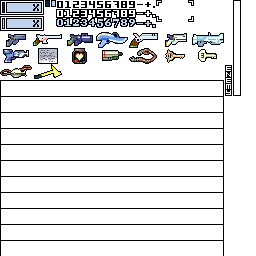
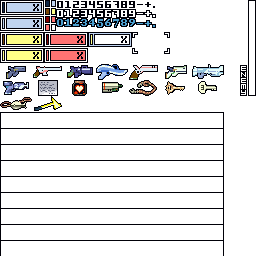
heads changes + gui fixes

diff --git a/source/menu/headsup-gui.cpp b/source/menu/headsup-gui.cpp
@@ -16,7 +16,7 @@ namespace {
 	const glm::vec2 kBarrierUnitsPosition 	{ 47.0f, 2.0f };
 	const rect_t kBarrierUnitsBounding 		{ 45.0f, 0.0f, 6.0f, 8.0f };
 	const glm::vec2 kOxygenCountPosition 	{ 2.0f, 18.0f };
-	const rect_t kOxygenCountBounding 		{ 56.0f, 9.0f, 8.0f, 9.0f };
+	const rect_t kOxygenCountBounding 		{ 56.0f, 18.0f, 8.0f, 10.0f };
 	const glm::vec2 kTitleViewPosition 		{ 240.0f, 36.0f };
 	const glm::vec4 kTitleViewColor			{ 0.25f, 0.25f, 1.0f, 1.0f };
 }
@@ -37,6 +37,7 @@ bool headsup_gui_t::init(receiver_t& receiver) {
 	}
 
 	main_scheme.set_file(heads_animation);
+	main_scheme.set_state(0);
 	main_scheme.set_position(kMainSchemePosition);
 
 	leviathan_count.set_texture(texture);
@@ -59,7 +60,6 @@ bool headsup_gui_t::init(receiver_t& receiver) {
 	item_view.init(texture, heads_animation, items_animation);
 	fight_meter.init(heads_animation);
 	fade.init();
-	main_state = 0;
 	synao_log("HeadsUp GUI is ready.\n");
 	return true;
 }
@@ -76,11 +76,9 @@ bool headsup_gui_t::refresh() {
 }
 
 void headsup_gui_t::reset() {
-	main_scheme.set_state(0);
 	main_scheme.set_direction(direction_t::Right);
 	fight_meter.reset();
 	fade.reset();
-	main_state = 0;
 }
 
 void headsup_gui_t::handle(const kernel_t& kernel, const dialogue_gui_t& dialogue_gui) {
@@ -121,11 +119,31 @@ void headsup_gui_t::invalidate() const {
 	fade.invalidate();
 }
 
-void headsup_gui_t::set_parameters(headsup_params_t params) {
-	main_state = params.main_state;
-	main_scheme.set_direction(params.main_direction);
+void headsup_gui_t::set_parameters(const headsup_params_t& params) {
+	direction_t direction = direction_t::Right;
+	switch (params.main_state) {
+	case 0:
+		direction = params.main_strafing ?
+			direction_t::Left :
+			direction_t::Right;
+		break;
+	case 1:
+		direction = params.main_strafing ?
+			direction_t::Up | direction_t::Left :
+			direction_t::Up;
+		break;
+	case 2:
+		direction = params.main_strafing ?
+			direction_t::Down | direction_t::Left :
+			direction_t::Down;
+		break;
+	default:
+		direction = direction_t::Up | direction_t::Down | direction_t::Left;
+		break;
+	}
+	main_scheme.set_direction(direction);
 	leviathan_count.set_value(params.current_leviathan);
-	barrier_units.set_values(params.current_barrier, params.maximum_barrier);
+	barrier_units.set_values(params.current_barrier, params.maximum_barrier, params.main_state);
 	oxygen_count.set_visible(params.current_oxygen != params.maximum_oxygen);
 	oxygen_count.set_value(params.current_oxygen);
 }
@@ -177,5 +195,15 @@ bool headsup_gui_t::is_fade_moving() const {
 }
 
 sint_t headsup_gui_t::get_main_state() const {
-	return main_state;
+	direction_t dir = main_scheme.get_direction();
+	if ((dir & direction_t::Down) and (dir & direction_t::Up)) {
+		return 3; // kNao::BoxHeal
+	}
+	if (dir & direction_t::Down) {
+		return 2; // kNao::BoxSick
+	}
+	if (dir & direction_t::Up) {
+		return 1; // kNao::BoxOkay
+	}
+	return 0; // kNao::BoxGood
 }

diff --git a/source/overlay/draw-units.cpp b/source/overlay/draw-units.cpp
@@ -57,6 +57,10 @@ void draw_units_t::set_bounding(const rect_t& bounding) {
 }
 
 void draw_units_t::set_values(sint_t current, sint_t maximum) {
+	this->set_values(current, maximum, tabular_value);
+}
+
+void draw_units_t::set_values(sint_t current, sint_t maximum, sint_t tabular) {
 	bool_t edited = false;
 	bool_t resize = false;
 	if (this->maximum_value != maximum) {
@@ -68,6 +72,10 @@ void draw_units_t::set_values(sint_t current, sint_t maximum) {
 		edited = true;
 		this->current_value = current;
 	}
+	if (this->tabular_value != tabular) {
+		edited = true;
+		this->tabular_value = tabular;
+	}
 	if (edited) {
 		this->generate(
 			static_cast<arch_t>(current),
@@ -77,11 +85,10 @@ void draw_units_t::set_values(sint_t current, sint_t maximum) {
 	}
 }
 
-void draw_units_t::set_table(sint_t table) {
-	if (this->table != table) {
+void draw_units_t::set_tabular(sint_t tabular) {
+	if (this->tabular_value != tabular) {
 		amend = true;
-		this->table = table;
-		this->set_values(current_value, maximum_value);
+		this->set_values(current_value, maximum_value, tabular_value);
 	}
 }
 
@@ -99,6 +106,7 @@ void draw_units_t::generate(arch_t current, arch_t maximum, bool_t resize) {
 	if (resize) {
 		quads.resize(maximum * display_list_t::SingleQuad);
 	}
+	const glm::vec2 offset { 0.0f, bounding.h * static_cast<real_t>(tabular_value) };
 	glm::vec2 pos = position;
 	glm::vec2 inv = texture ? texture->get_inverse_dimensions() : glm::one<glm::vec2>();
 	sint_t texID = texture ? texture->get_name() : 0;
@@ -112,25 +120,25 @@ void draw_units_t::generate(arch_t current, arch_t maximum, bool_t resize) {
 
 		quad[0].position = pos;
 		quad[0].matrix = 0;
-		quad[0].uvcoords = uvs * inv;
+		quad[0].uvcoords = inv * (uvs + offset);
 		quad[0].alpha = 1.0f;
 		quad[0].texID = texID;
 
 		quad[1].position = { pos.x, pos.y + bounding.h };
 		quad[1].matrix = 0;
-		quad[1].uvcoords = glm::vec2(uvs.x, uvs.y + bounding.h) * inv;
+		quad[1].uvcoords = inv * glm::vec2(uvs.x + offset.x, uvs.y + bounding.h + offset.y);
 		quad[1].alpha = 1.0f;
 		quad[1].texID = texID;
 
 		quad[2].position = { pos.x + bounding.w, pos.y };
 		quad[2].matrix = 0;
-		quad[2].uvcoords = glm::vec2(uvs.x + bounding.w, uvs.y) * inv;
+		quad[2].uvcoords = inv * glm::vec2(uvs.x + bounding.w + offset.x, uvs.y + offset.y);
 		quad[2].alpha = 1.0f;
 		quad[2].texID = texID;
 
 		quad[3].position = pos + bounding.dimensions();
 		quad[3].matrix = 0;
-		quad[3].uvcoords = inv * (uvs + bounding.dimensions());
+		quad[3].uvcoords = inv * (uvs + bounding.dimensions() + offset);
 		quad[3].alpha = 1.0f;
 		quad[3].texID = texID;
 

diff --git a/source/menu/headsup-gui.hpp b/source/menu/headsup-gui.hpp
@@ -21,7 +21,7 @@ public:
 	sint_t maximum_barrier { 0 };
 	sint_t current_leviathan { 0 };
 	sint_t main_state { 0 };
-	direction_t main_direction { direction_t::Right };
+	bool_t main_strafing { false };
 	sint_t current_oxygen { 0 };
 	sint_t maximum_oxygen { 0 };
 public:
@@ -47,7 +47,7 @@ public:
 	void update(real64_t delta);
 	void render(renderer_t& renderer, const kernel_t& kernel) const;
 	void invalidate() const;
-	void set_parameters(headsup_params_t params);
+	void set_parameters(const headsup_params_t& params);
 	void set_fight_values(sint_t current, sint_t maximum);
 	void fade_in();
 	void fade_out();
@@ -70,5 +70,4 @@ private:
 	draw_item_view_t item_view {};
 	draw_meter_t fight_meter {};
 	draw_fade_t fade {};
-	sint_t main_state { 0 }; // TODO: replace this
 };

diff --git a/source/overlay/draw-units.hpp b/source/overlay/draw-units.hpp
@@ -21,7 +21,8 @@ public:
 	void set_bounding(real_t x, real_t y, real_t w, real_t h);
 	void set_bounding(const rect_t& bounding);
 	void set_values(sint_t current, sint_t maximum);
-	void set_table(sint_t table);
+	void set_values(sint_t current, sint_t maximum, sint_t tabular);
+	void set_tabular(sint_t tabular);
 	void set_texture(const texture_t* texture);
 	const glm::vec2& get_position() const;
 private:
@@ -32,7 +33,7 @@ private:
 	rect_t bounding {};
 	sint_t current_value { 0 };
 	sint_t maximum_value { 0 };
-	sint_t table { 0 };
+	sint_t tabular_value { 0 };
 	const texture_t* texture { nullptr };
 	vertex_pool_t quads {};
 };

diff --git a/source/actor/naomi.cpp b/source/actor/naomi.cpp
@@ -1225,9 +1225,7 @@ void naomi_state_t::do_headsup(headsup_gui_t& headsup_gui, const health_t& healt
 	params.maximum_barrier = health.maximum;
 	params.current_leviathan = health.leviathan;
 	params.main_state = naomi_state_t::get_box_data(headsup_gui, flags, params);
-	params.main_direction = flags[naomi_flags_t::Strafing] ?
-		direction_t::Left :
-		direction_t::Right;
+	params.main_strafing = flags[naomi_flags_t::Strafing];
 	params.current_oxygen = equips[naomi_equips_t::Oxygen] ?
 		static_cast<sint_t>(kNao::Oxygens / 15) :
 		static_cast<sint_t>(chroniker[naomi_timer_t::Oxygen] / 15);

diff --git a/source/overlay/draw-item-view.cpp b/source/overlay/draw-item-view.cpp
@@ -6,7 +6,7 @@ namespace {
 	const glm::vec2 kViewPosition { 440.0f, 2.0f };
 	const glm::vec2 kSchemePosition = kViewPosition + 3.0f;
 	const glm::vec2 kAmmoPosition { 470.0f, 25.0f };
-	const rect_t kAmmoBounding { 56.0f, 18.0f, 8.0f, 10.0f };
+	const rect_t kAmmoBounding { 56.0f, 9.0f, 8.0f, 9.0f };
 }
 
 void draw_item_view_t::init(const texture_t* texture, const animation_t* heads_animation, const animation_t* items_animation) {

diff --git a/source/menu/inventory-gui.cpp b/source/menu/inventory-gui.cpp
@@ -23,7 +23,7 @@ namespace {
 	const glm::vec2 kElementOffset 		{ 38.0f, 10.0f };
 	const glm::ivec2 kElementSpacing 	{ 49, 21 };
 	const rect_t kElementBounding		{ 0.0f, 0.0f, 32.0f, 16.0f };
-	const rect_t kCountBounding 		{ 56.0f, 18.0f, 8.0f, 10.0f };
+	const rect_t kCountBounding 		{ 56.0f, 9.0f, 8.0f, 9.0f };
 }
 
 void inventory_gui_element_t::init(const texture_t* texture, const animation_t* animation, arch_t index) {
